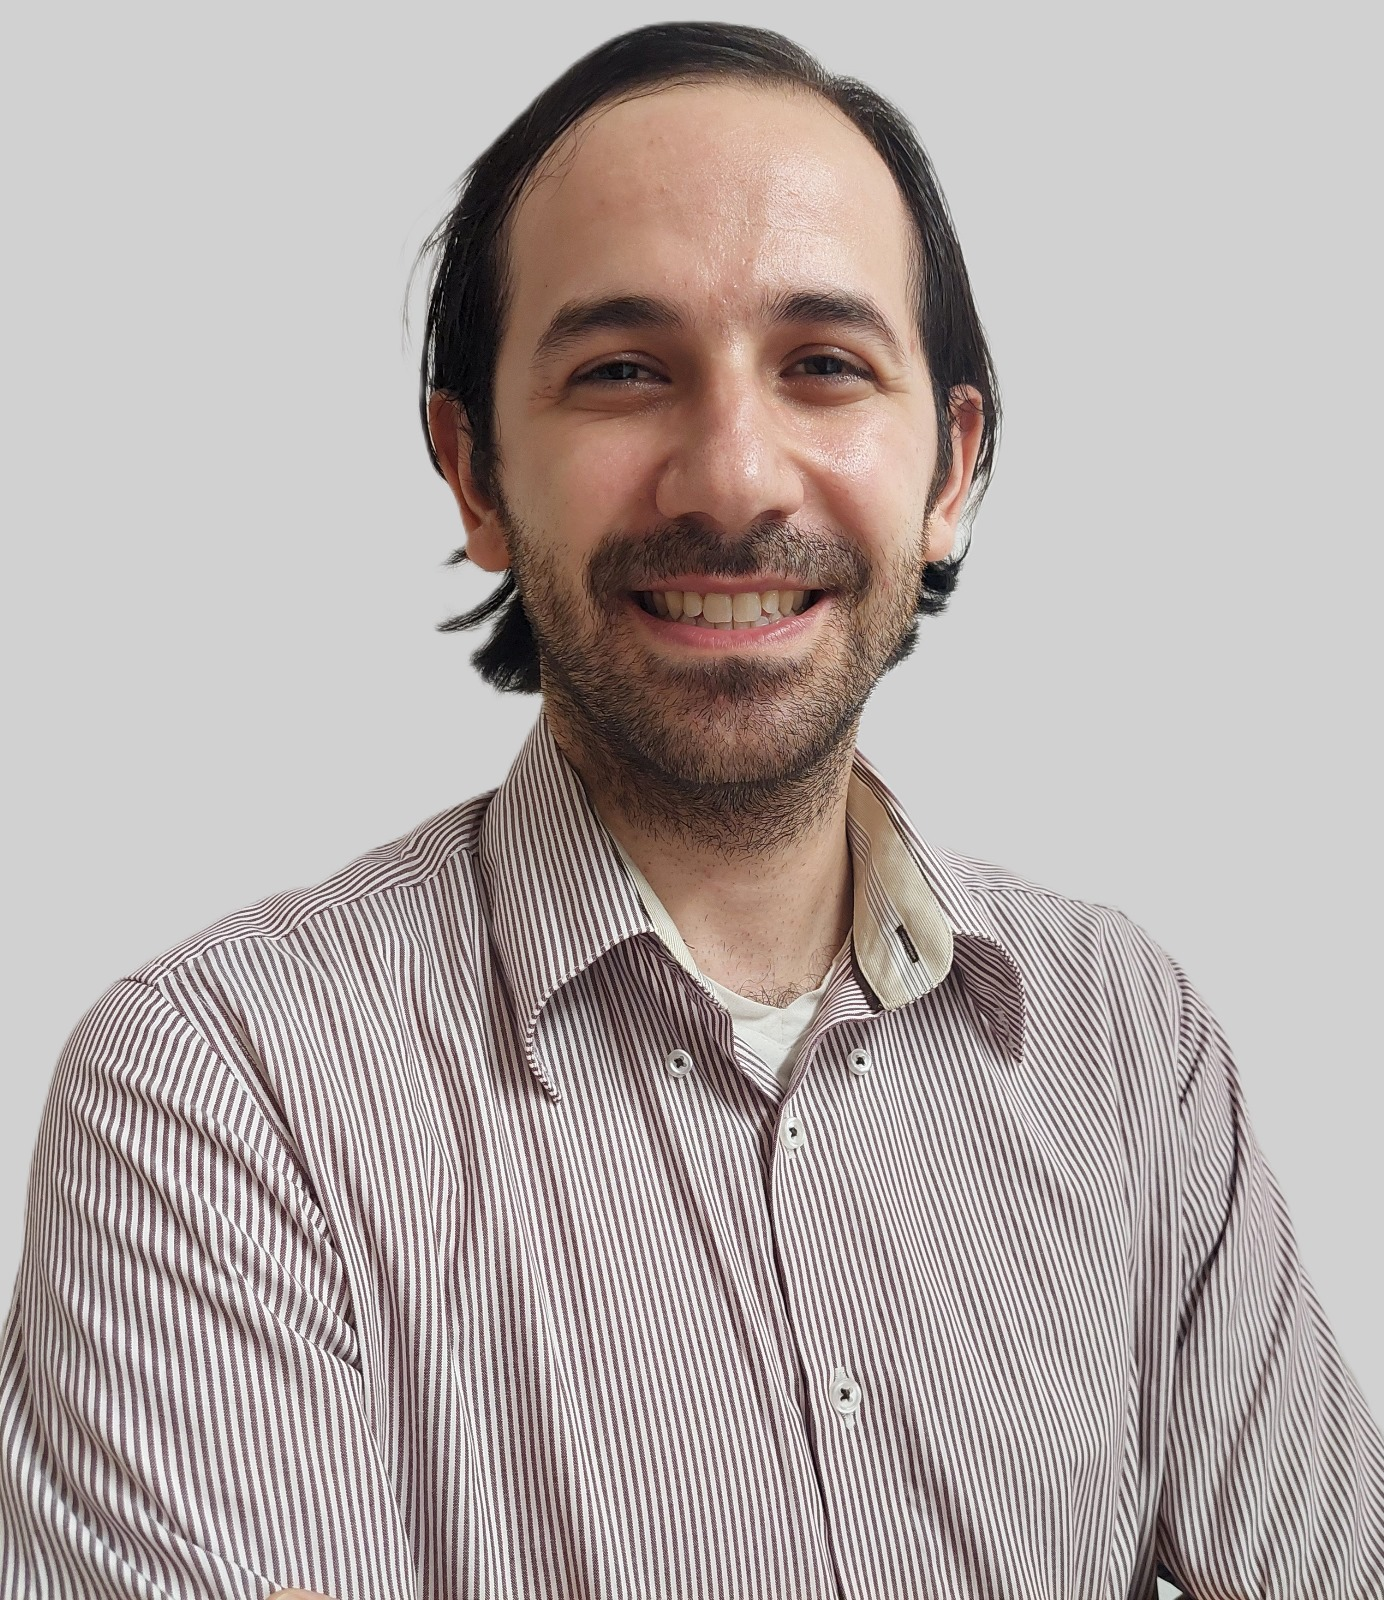
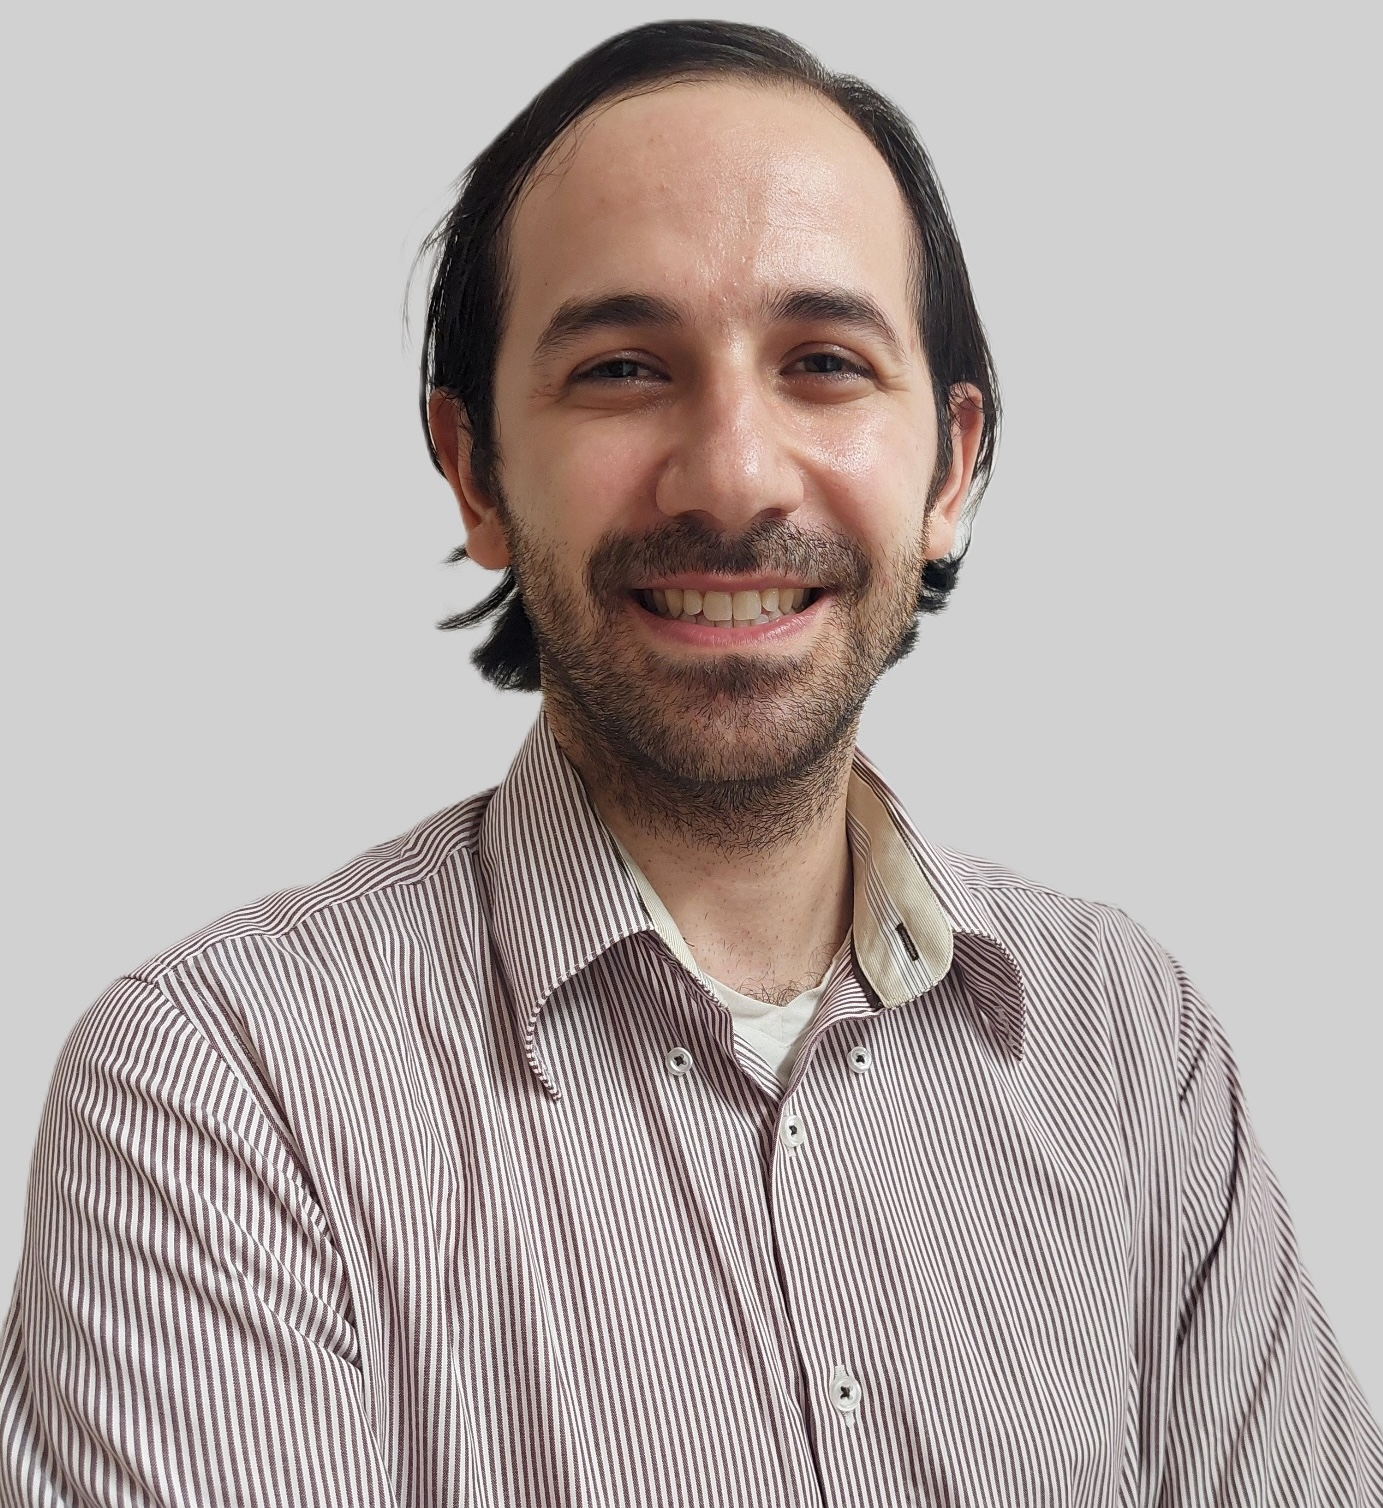
Square cropped the images

diff --git a/meet.md b/meet.md
@@ -40,7 +40,7 @@ title: Meet The Team
   <div class="team-member">
     <img src="{{site.baseurl | prepend: site.url}}public/team_images/sriram.png" alt="Sriram">
     <p>Sriram</p>
-    <p>First-year Ph.D. student from CCDS. Instructor of the second session (DL with PyTorch).</p>
+    <p>First-year Ph.D. student from CCDS. Organizer and Instructor of the second session (DL with PyTorch).</p>
   </div>
 
   <div class="team-member">
